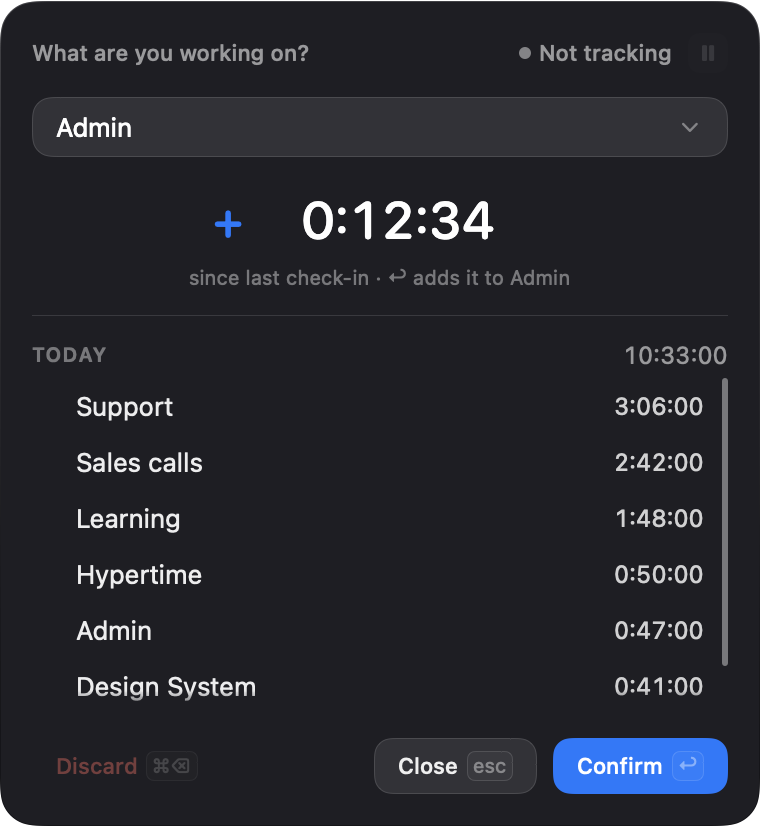
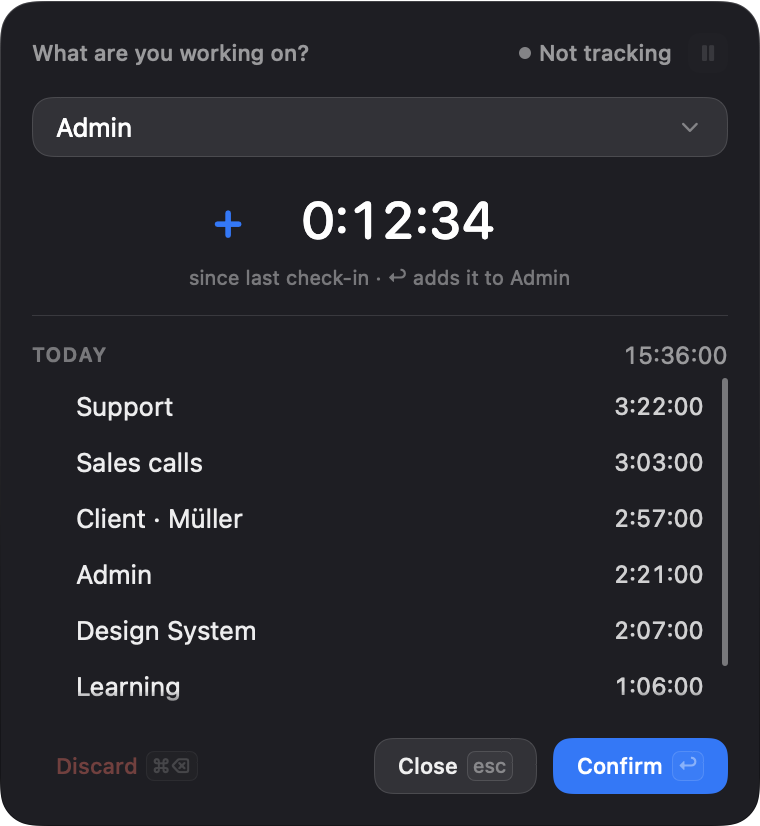
ui: anchor the dropdown to its field and resolve ↩ innermost-first
The dropdown hung at the top of the today list, a field and a caption away from
the text it filters, so it read as two controls instead of one combobox. It is
now one gap under the project field and covers the amount, which is fine because
Esc, Tab, the chevron and picking a row all dismiss it.

↩ now resolves innermost-first: with the list open it takes the highlighted row
and closes the list; in the time field the first press normalises the entry
("90m" → "1:30:00") and the second commits, so an amount is on screen before it
becomes a saved entry. The default path — popup opens on the project field,
plain ↩ — is still a single keystroke.

Short panels (nothing tracked yet today, several projects) used to clip the list
mid-row and bury the buttons; the button row is now padded clear by exactly the
overflow, measured only while the list is closed so it cannot feed back on
itself. Adds a screenshot scene for that worst case.

101 tests, 53 self-test checks.

diff --git a/Sources/Hypertime/App/SelfTest.swift b/Sources/Hypertime/App/SelfTest.swift
@@ -43,10 +43,27 @@ enum SelfTest {
         viewModel.projectTextChanged("self")
         check("typing filters the list", viewModel.matches.contains { $0.name == "Self Test" })
         check("typing opens the dropdown", viewModel.showsProjectList)
-        check("dropdown hangs below the amount field", panel.presentation.listTop > 60,
+        // The dropdown belongs to the field it filters: it opens directly under the project
+        // field and overlaps the amount, rather than floating a field and a caption away.
+        check("dropdown hangs off the project field", panel.presentation.listTop > 60,
               "\(panel.presentation.listTop)")
-        check("panel grows to fit an open dropdown",
+        check("dropdown starts above the amount field it covers",
+              panel.presentation.listTop < 120, "\(panel.presentation.listTop)")
+        check("panel is tall enough for an open dropdown",
               panel.presentation.requiredHeight >= panel.presentation.listTop + panel.presentation.dropdownHeight)
+
+        // ↩ with the list open belongs to the list (R-11): it takes the highlighted row and
+        // closes it, rather than committing the popup past a list still being read.
+        let highlightedName = viewModel.highlightedRow?.name ?? ""
+        check("↩ with the dropdown open is consumed by the dropdown", viewModel.acceptHighlightedRow())
+        check("…which closes the list rather than the popup",
+              !viewModel.showsProjectList && panel.isVisible)
+        check("…and does not commit", model.engine.pendingSeconds == 0)
+        check("…puts the highlighted row in the field", viewModel.fieldText == highlightedName,
+              "\(viewModel.fieldText) vs \(highlightedName)")
+        check("…and clears the filter, so reopening shows every project",
+              viewModel.query.isEmpty && viewModel.matches.count >= (try? model.store.projects().count) ?? 0)
+        check("↩ with no dropdown open is left to the popup", !viewModel.acceptHighlightedRow())
 
         viewModel.closeProjectList()
         check("dropdown closes without closing the popup", !viewModel.showsProjectList && panel.isVisible)
@@ -61,6 +78,30 @@ enum SelfTest {
         viewModel.projectTextChanged("self")
         viewModel.focus = .time
         check("leaving the project field closes the dropdown", !viewModel.showsProjectList)
+
+        // The first ↩ in the time field takes the time: typing "90m" and pressing once used to
+        // save an amount the user had never seen rendered.
+        viewModel.timeTextChanged("90m")
+        check("↩ in the time field is consumed by the field", viewModel.acceptTimeEntry())
+        check("…and normalises what was typed", viewModel.timeText == "1:30:00", viewModel.timeText)
+        check("…without committing", panel.isVisible)
+        check("a second ↩ is left to the popup", !viewModel.acceptTimeEntry())
+        check("editing again puts the two steps back", {
+            viewModel.timeTextChanged("45m")
+            return viewModel.acceptTimeEntry() && viewModel.timeText == "0:45:00"
+        }(), viewModel.timeText)
+        check("an unparsable amount is reported rather than committed", {
+            viewModel.timeTextChanged("nonsense")
+            return viewModel.acceptTimeEntry() && viewModel.timeFieldInvalid
+        }())
+        check("leaving the field puts the two steps back", {
+            viewModel.timeTextChanged("0:30:00")
+            _ = viewModel.acceptTimeEntry()
+            viewModel.focus = .project
+            viewModel.focus = .time
+            return !viewModel.isTimeAccepted
+        }())
+        viewModel.timeTextChanged("")
         viewModel.focus = .project
         check("create row comes first for an unknown name", {
             viewModel.projectTextChanged("brand new thing")

diff --git a/Sources/Hypertime/Views/CheckIn/CheckInView.swift b/Sources/Hypertime/Views/CheckIn/CheckInView.swift
@@ -25,32 +25,32 @@ struct CheckInView: View {
                 header
 
                 ProjectField(viewModel: viewModel)
+                    // The dropdown hangs off the field it filters, one gap below it, so the two
+                    // read as a single combobox. It covers whatever is beneath — the amount is
+                    // back the moment the list closes.
+                    .onGeometryChange(for: CGFloat.self) { $0.frame(in: .named("panel")).maxY } action: {
+                        presentation.reportListTop($0 + Tokens.Space.s1)
+                    }
 
                 AmountField(viewModel: viewModel, presentation: presentation)
-                    // The dropdown hangs below the amount, so what you are about to add stays
-                    // readable while you pick the project it goes to.
-                    .onGeometryChange(for: CGFloat.self) { $0.frame(in: .named("panel")).maxY } action: {
-                        presentation.reportListTop($0 + Tokens.Space.s3)
-                    }
 
-                if hasTodayList || viewModel.showsProjectList {
+                if hasTodayList {
                     VStack(alignment: .leading, spacing: Tokens.Space.s3) {
-                        if hasTodayList {
-                            Hairline()
-                            TodayListView(viewModel: viewModel)
-                                // The dropdown owns the keyboard while it is open; the list steps back.
-                                .opacity(viewModel.showsProjectList ? 0.45 : 1)
-                                .allowsHitTesting(!viewModel.showsProjectList)
-                        }
+                        Hairline()
+                        TodayListView(viewModel: viewModel)
+                            // The dropdown owns the keyboard while it is open; the list steps back.
+                            .opacity(viewModel.showsProjectList ? 0.45 : 1)
+                            .allowsHitTesting(!viewModel.showsProjectList)
                     }
-                    // While the dropdown is open the list area reserves its height, so the
-                    // buttons move down instead of being covered.
-                    .frame(maxWidth: .infinity,
-                           minHeight: viewModel.showsProjectList ? dropdownHeight : 0,
-                           alignment: .top)
                 }
 
                 buttons
+                    // Short panel, long list: push the actions clear instead of letting the
+                    // dropdown bury them. The panel grows with them (it only ever grows down).
+                    .padding(.top, dropdownClearance)
+                    .onGeometryChange(for: CGFloat.self) { $0.frame(in: .named("panel")).minY } action: { top in
+                        if !viewModel.showsProjectList { presentation.reportButtonsTop(top) }
+                    }
             }
             .padding(Tokens.Space.s4)
 
@@ -80,6 +80,14 @@ struct CheckInView: View {
     private var hasTodayList: Bool { !viewModel.todayRows.isEmpty || viewModel.isTracking }
 
     private var dropdownHeight: CGFloat { ProjectList.height(rows: viewModel.matches.count) }
+
+    /// How far the buttons have to move so an open dropdown does not cover them. Zero whenever
+    /// the content below the field is already taller than the list, which is the usual case.
+    private var dropdownClearance: CGFloat {
+        guard viewModel.showsProjectList, presentation.buttonsTop > 0 else { return 0 }
+        let dropdownBottom = presentation.listTop + dropdownHeight + Tokens.Space.s3
+        return max(0, dropdownBottom - presentation.buttonsTop)
+    }
 
     /// Focused popups scale in from 0.98; passive ones only fade and slide.
     private var scaleWhileHidden: CGFloat {

diff --git a/Sources/Hypertime/ViewModels/CheckInViewModel.swift b/Sources/Hypertime/ViewModels/CheckInViewModel.swift
@@ -52,6 +52,11 @@ final class CheckInViewModel {
     var timeText = ""
     var isEditingTime = false
     var timeFieldInvalid = false
+    /// Whether ↩ has already taken what is in the time field. The first ↩ normalises the entry
+    /// ("90m" → "1:30:00") and stops there; only a second one commits the popup, so a typo is
+    /// visible as a number before it becomes a saved entry. Reset by anything that changes the
+    /// value, and by leaving the field.
+    var isTimeAccepted = false
 
     // Today list
     var todayRows: [ReportRow] = []
@@ -59,7 +64,12 @@ final class CheckInViewModel {
 
     // Chrome
     var focus: CheckInFocus = .none {
-        didSet { if focus != .project { isProjectListOpen = false } }
+        didSet {
+            if focus != .project { isProjectListOpen = false }
+            // Leaving the field forgets that ↩ had taken its value: coming back should show the
+            // same two steps as arriving the first time, not commit on the first press.
+            if focus != .time { isTimeAccepted = false }
+        }
     }
     var statusLine = ""
     var todayTotalText = ""
@@ -215,6 +225,16 @@ final class CheckInViewModel {
         matches.indices.contains(highlighted) ? matches[highlighted] : nil
     }
 
+    /// ↩ with the dropdown open belongs to the dropdown: it takes the highlighted row and closes
+    /// the list, exactly as clicking it does, rather than committing the popup past a list the
+    /// user is still reading. Returns true when the press was consumed; with no list open the
+    /// caller commits as before.
+    func acceptHighlightedRow() -> Bool {
+        guard showsProjectList, matches.indices.contains(highlighted) else { return false }
+        selectRow(highlighted)
+        return true
+    }
+
     /// The name a commit would use: the field text, which arrow keys keep in sync with the list.
     var effectiveName: String {
         fieldText.trimmingCharacters(in: .whitespacesAndNewlines)
@@ -241,6 +261,7 @@ final class CheckInViewModel {
     func timeTextChanged(_ text: String) {
         timeText = text
         timeFieldInvalid = false
+        isTimeAccepted = false
         // Clearing the field hands the display back to the live counter (§6.4).
         isEditingTime = !text.trimmingCharacters(in: .whitespacesAndNewlines).isEmpty
         if !isEditingTime { refreshTime() }
@@ -253,6 +274,25 @@ final class CheckInViewModel {
         isEditingTime = true
         timeText = model.formatter.string(updated, style: .clock)
         timeFieldInvalid = false
+        isTimeAccepted = false
+    }
+
+    /// The first ↩ in the time field takes the time, not the popup. Typing "90m" and pressing
+    /// once used to save an amount the user had never seen rendered; now the first press
+    /// normalises it to "1:30:00" on screen and the second commits. Returns true when the press
+    /// was consumed here.
+    func acceptTimeEntry() -> Bool {
+        guard !isTimeAccepted else { return false }
+        guard let seconds = try? model.parser.parseAbsolute(timeText) else {
+            // A press that reports an error is still a press this field handled: falling through
+            // to commit() would show the same complaint twice over.
+            timeFieldInvalid = true
+            return true
+        }
+        timeText = model.formatter.string(seconds, style: .clock)
+        isEditingTime = true
+        isTimeAccepted = true
+        return true
     }
 
     // MARK: - Commands

diff --git a/Sources/Hypertime/Views/CheckIn/PanelPresentation.swift b/Sources/Hypertime/Views/CheckIn/PanelPresentation.swift
@@ -23,13 +23,19 @@ final class PanelPresentation {
     var isConfirming = false
 
     var contentHeight: CGFloat = Tokens.Size.popupMinHeight
-    /// Y of the today-list section in panel coordinates: where the dropdown is anchored, so the
-    /// amount stays visible while a project is being picked.
+    /// Y of the dropdown's top edge in panel coordinates — just under the project field it
+    /// filters, so the two read as one combobox. It overlaps the amount and the today list
+    /// rather than displacing them.
     var listTop: CGFloat = 120
     var dropdownHeight: CGFloat = 0
+    /// Y of the button row, measured only while the dropdown is closed — so the space reserved
+    /// for an open dropdown can never feed back into its own measurement.
+    var buttonsTop: CGFloat = 0
 
     var onHeightRequest: ((CGFloat) -> Void)?
 
+    /// The window only grows when an open dropdown would not otherwise fit: with a today list
+    /// of any length the list already ends above the buttons, so opening it resizes nothing.
     var requiredHeight: CGFloat {
         let dropdownBottom = dropdownHeight > 0 ? listTop + dropdownHeight + Tokens.Space.s4 : 0
         return max(contentHeight, dropdownBottom)
@@ -45,6 +51,11 @@ final class PanelPresentation {
         guard abs(value - listTop) > 0.5 else { return }
         listTop = value
         onHeightRequest?(requiredHeight)
+    }
+
+    func reportButtonsTop(_ value: CGFloat) {
+        guard abs(value - buttonsTop) > 0.5 else { return }
+        buttonsTop = value
     }
 
     func reportDropdownHeight(_ value: CGFloat) {

diff --git a/Sources/Hypertime/App/ScreenshotRenderer.swift b/Sources/Hypertime/App/ScreenshotRenderer.swift
@@ -88,10 +88,18 @@ enum ScreenshotRenderer {
             emptyCheckIn.prepareForShow()
             render("popup-empty", AnyView(CheckInView(viewModel: emptyCheckIn, presentation: presentation)), in: url)
 
-            for name in ["Hypertime", "Client · Müller", "Admin", "Design System", "Sales calls", "Learning", "Support"] {
-                if let project = try? empty.store.findOrCreateProject(named: name) {
-                    try? empty.store.setSeconds(project: project.id, day: empty.today, Int.random(in: 12...220) * 60)
-                }
+            let names = ["Hypertime", "Client · Müller", "Admin", "Design System", "Sales calls", "Learning", "Support"]
+            let projects = names.compactMap { try? empty.store.findOrCreateProject(named: $0) }
+
+            // Worst case for the overlay: projects to choose from, but nothing tracked today, so
+            // the panel is at its shortest while the dropdown is at its tallest.
+            emptyCheckIn.prepareForShow()
+            emptyCheckIn.focus = .project
+            emptyCheckIn.projectTextChanged("e")
+            render("popup-dropdown-short", AnyView(CheckInView(viewModel: emptyCheckIn, presentation: presentation)), in: url)
+
+            for project in projects {
+                try? empty.store.setSeconds(project: project.id, day: empty.today, Int.random(in: 12...220) * 60)
             }
             emptyCheckIn.prepareForShow()
             emptyCheckIn.timeText = "0:12:34"

diff --git a/Sources/Hypertime/Views/CheckIn/AmountField.swift b/Sources/Hypertime/Views/CheckIn/AmountField.swift
@@ -60,6 +60,11 @@ struct AmountField: View {
 
     private var caption: String {
         if viewModel.timeFieldInvalid { return "Try 1:30 or 90m" }
+        // While the field holds an entry ↩ has not taken yet, the next press sets the amount
+        // rather than saving — and the line has to say the thing the key will actually do.
+        if isFocused && !viewModel.isTimeAccepted {
+            return "since last check-in · ↩ sets the amount"
+        }
         let name = viewModel.effectiveName.isEmpty ? viewModel.currentProjectName : viewModel.effectiveName
         guard let name else { return "since last check-in · ↩ starts tracking" }
         let verb = viewModel.isPaused ? "adds it and resumes" : "adds it to"
@@ -69,6 +74,9 @@ struct AmountField: View {
     private func handle(_ selector: Selector, _ modifiers: NSEvent.ModifierFlags) -> Bool {
         switch selector {
         case .insertNewline:
+            // First ↩ takes the amount and normalises it; a second commits the popup, so what
+            // gets saved is a number the user has actually seen.
+            if viewModel.acceptTimeEntry() { return true }
             viewModel.commit()
             return true
         case .cancelOperation:

diff --git a/Sources/Hypertime/Views/CheckIn/ProjectField.swift b/Sources/Hypertime/Views/CheckIn/ProjectField.swift
@@ -60,6 +60,9 @@ struct ProjectField: View {
             viewModel.moveSelection(by: 1)
             return true
         case .insertNewline:
+            // With the list open, ↩ is the list's: it takes the highlighted row and closes it.
+            // Only once there is no list in the way does ↩ mean "commit the popup".
+            if viewModel.acceptHighlightedRow() { return true }
             viewModel.commit()
             return true
         case .cancelOperation:

diff --git a/docs/DECISIONS.md b/docs/DECISIONS.md
@@ -69,3 +69,6 @@ Everything in `PLAN.md` has been built. What remains needs a person, not more co
 | 2026-09-07 | R-07 | The dropdown is an explicit transient state (`isProjectListOpen`), not "the project field has focus". It opens on typing, on ↑/↓ and on the chevron; it closes on pick, Esc, Tab, focus change and commit. | As shipped it was open the entire time the field had focus, which is every time the popup opens — so it could never be dismissed and permanently hid the amount. |
 | 2026-09-07 | R-07 | Clicking a row fills the field and closes the dropdown; committing stays an explicit ↩ or Confirm. First Esc dismisses the dropdown, a second closes the popup. | Picking a project was wired straight to `commit()`, so the only way to close the list was to file time. Select-then-confirm is standard combobox behaviour and cannot commit by accident. |
 | 2026-09-07 | A-popup dropdown | The dropdown is anchored to the top of the today list rather than directly under the field, and the list area reserves the dropdown's height while it is open so the buttons move down instead of being covered. | The handoff describes it as overlaying (and dimming) the today list. Anchoring it to the field buried the amount — the one number you need while choosing where the time goes — and the buttons underneath it. |
+| 2026-09-07 | A-popup dropdown | **Supersedes the row above:** the dropdown is anchored one gap under the project field and overlaps the amount and the today list, instead of hanging at the top of the list. | Anchoring it below the amount kept the amount readable but detached the list from the text it filters — it read as two controls rather than one combobox. With the list now dismissable (Esc, Tab, chevron, pick) the amount is one keypress away, so the overlap costs nothing. User: "the dropdown may overlap the time, as long as it can disappear". |
+| 2026-09-07 | A-popup dropdown | When an open dropdown would reach past the button row — a short panel with nothing tracked yet today and several projects — the buttons are padded down by exactly the overflow and the panel grows with them. The button row's position is measured only while the list is closed, so the reservation cannot feed back into its own measurement. | Without it the list was clipped mid-row by the panel edge and Confirm/Close/Discard were unreachable. |
+| 2026-09-07 | R-11 | ↩ resolves innermost-first: with the dropdown open it takes the highlighted row and closes the list; in the time field the first press normalises the entry ("90m" → "1:30:00") and holds, the second commits the popup. The caption reads "↩ sets the amount" while a press is still owed. Anywhere else ↩ commits as before, so the default path — popup opens on the project field, plain ↩ — is still one keystroke. | User request. It also removes a real trap: an amount could be parsed, saved and dismissed in a single keystroke, so a typo became a stored entry the user never saw rendered. |
